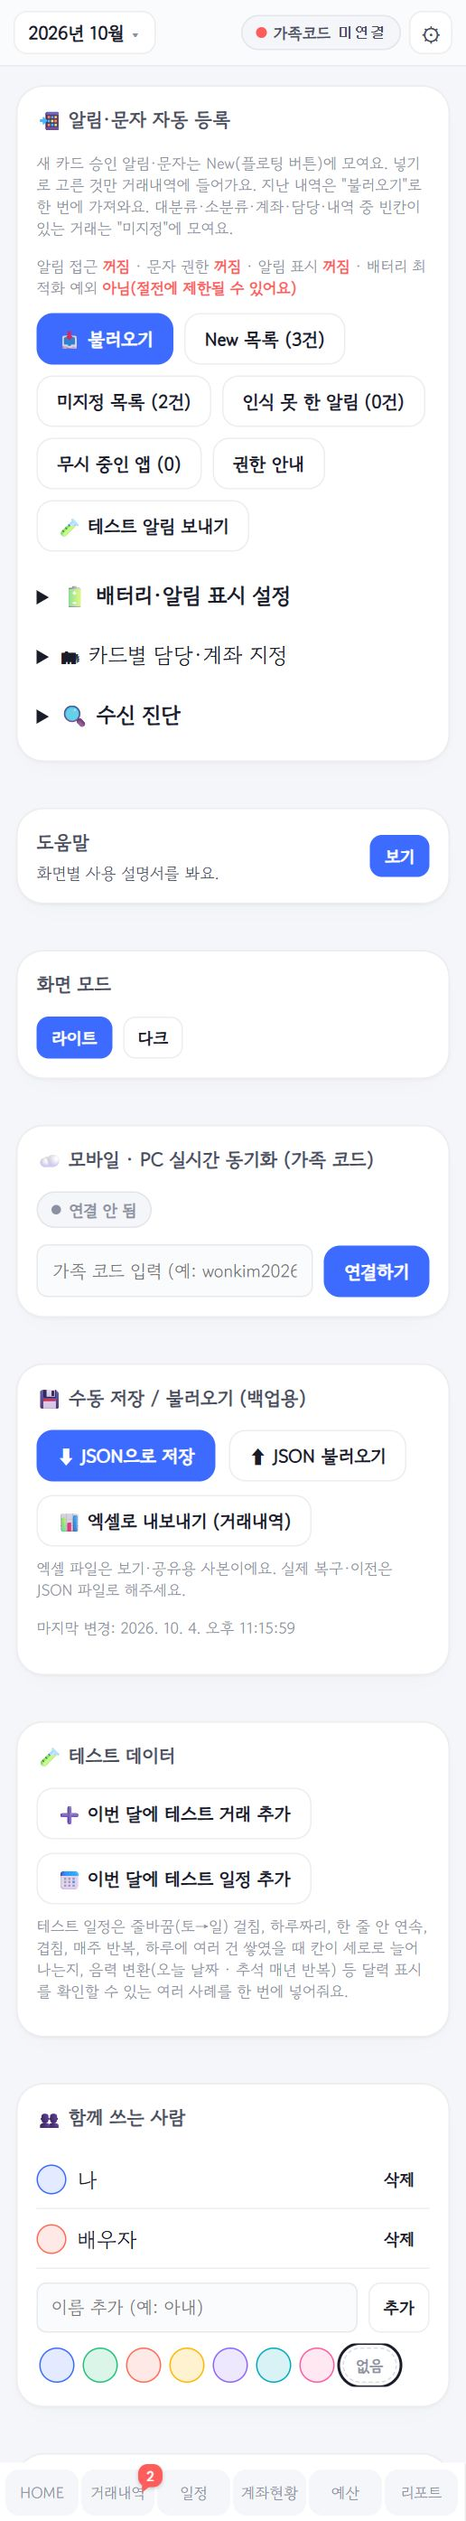
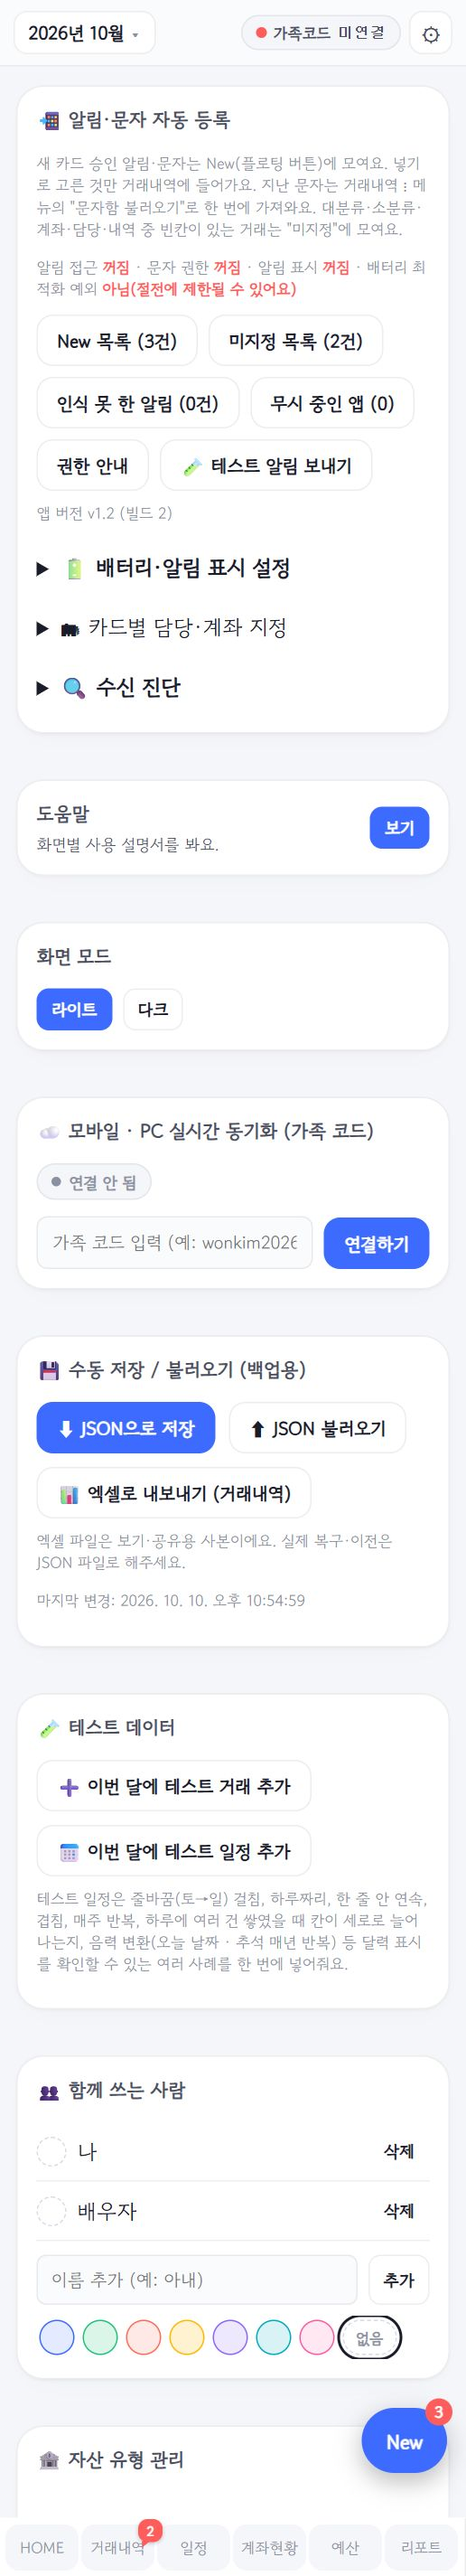
문자함 불러오기를 거래내역 ⋮ 메뉴로 이동, 도움말 갱신(설정·⋮ 메뉴·불러오기 미리보기)

diff --git a/help/help-data.js b/help/help-data.js
@@ -10,7 +10,7 @@
  * 좌표 잡는 법과 갱신 절차는 .agents/skills/help-manual/SKILL.md 참고.
  */
 window.GB_HELP_DATA = {
-  version: '2026-10-09',
+  version: '2026-10-10',
   device: 'Galaxy Z Fold5 접은 화면 344×882',
   screens: [
     {
@@ -121,22 +121,22 @@ window.GB_HELP_DATA = {
       id: 'settings', tab: '설정', title: '설정', image: 'img/settings.jpg',
       desc: '알림·문자 자동 인식, 도움말, 화면 모드, 가족코드, 백업 등을 관리해요.',
       points: [
-        { n: 1, x: 9, y: 4.4, title: '알림·문자 자동 인식', text: '앱 전용이에요. 새 카드 승인 문자·알림은 New(플로팅 버튼)에 모여요. 아래 줄에 권한 상태(켜짐/꺼짐)가 보여요.' },
-        { n: 2, x: 9, y: 12.6, title: '불러오기', text: '지난 내역을 기간·카드사를 골라 한 번에 가져와요. 가져온 거래는 New를 거치지 않고 바로 거래내역에 들어가요(빈칸이 있으면 미지정). 잘못 가져오면 결과 창에서 되돌려요.' },
-        { n: 3, x: 40.7, y: 12.6, title: 'New 목록', text: '플로팅 버튼 New와 같은 목록이에요. 새로 온 거래를 넣을지 버릴지 골라요.' },
-        { n: 4, x: 9, y: 15.1, title: '미지정 목록', text: '대분류·소분류·계좌·담당·내역 중 빈칸이 있는 거래를 모아 보고 채워요. 거래내역의 미지정 칩과 같은 목록이에요.' },
-        { n: 5, x: 48.9, y: 15.1, title: '인식 못 한 알림', text: '금융 알림 같지만 자동으로 읽지 못한 알림이에요. 여기서만 볼 수 있고, 원문을 보고 직접 등록하거나 무시해요.' },
-        { n: 6, x: 9, y: 17.6, title: '무시 중인 앱', text: '"다시 받지 않기"한 앱 목록이에요. 실수로 막았으면 여기서 되돌려요.' },
-        { n: 7, x: 46.8, y: 17.6, title: '권한 안내 / 테스트 알림', text: '필요한 권한을 다시 안내하고, 테스트 알림으로 알림 인식이 되는지 확인해요.' },
-        { n: 8, x: 9, y: 22.7, title: '접힌 메뉴', text: '▶ 를 누르면 배터리·알림 표시 설정, 카드별 담당·계좌 지정, 수신 진단이 펼쳐져요.' },
-        { n: 9, x: 80.6, y: 33.3, title: '도움말', text: '지금 보고 있는 이 화면별 설명서를 열어요.' },
-        { n: 10, x: 9, y: 38.7, title: '화면 모드', text: '라이트/다크 모드를 바꿔요.' },
-        { n: 11, x: 9, y: 45.6, title: '가족코드 연결', text: '같은 가족코드를 입력한 기기끼리 실시간으로 같은 가계부를 봐요. 가입은 필요 없고, 남이 추측하기 어려운 코드를 쓰세요.' },
-        { n: 12, x: 9, y: 55.1, title: '백업', text: 'JSON으로 저장하면 파일로 보관하고, 나중에 JSON 불러오기로 되살려요. 엑셀은 보기용 사본이라 되돌려 불러올 수 없어요.' },
-        { n: 13, x: 9, y: 69.3, title: '테스트 데이터', text: '화면 확인용 예시 거래·일정을 이번 달에 넣어요. 확인 후에는 직접 지워주세요.' },
-        { n: 14, x: 9, y: 83.7, title: '함께 쓰는 사람', text: '거래·일정의 "담당"으로 고를 사람을 추가하거나 지워요. 이름을 적고 아래에서 색을 고른 뒤 "추가"를 눌러요.' },
-        { n: 15, x: 11, y: 86.4, title: '담당자 색 점', text: '이름 앞 동그라미가 그 사람의 색이에요. 색 점이나 이름을 누르면 이름과 색을 바꾸는 창이 열려요. 정한 색은 HOME 최근 거래의 행 바탕에 보여요.' },
-        { n: 16, x: 9, y: 93.8, title: '색 고르기', text: '새로 추가할 사람의 색을 추천 7가지 중에서 골라요. "없음"을 고르면 색 없이 추가돼요.' }
+        { n: 1, x: 9, y: 4.3, title: '알림·문자 자동 인식', text: '앱 전용이에요. 새 카드 승인 문자·알림은 New(플로팅 버튼)에 모여요. 아래 줄에 권한 상태(켜짐/꺼짐)가 보여요. 지난 문자 불러오기는 거래내역 ⋮ 메뉴로 옮겼어요.' },
+        { n: 2, x: 9, y: 12.4, title: 'New 목록', text: '플로팅 버튼 New와 같은 목록이에요. 새로 온 거래를 넣을지 버릴지 골라요.' },
+        { n: 3, x: 45.9, y: 12.4, title: '미지정 목록', text: '대분류·소분류·계좌·담당·내역 중 빈칸이 있는 거래를 모아 보고 채워요. 거래내역의 미지정 칩과 같은 목록이에요.' },
+        { n: 4, x: 9, y: 14.8, title: '인식 못 한 알림', text: '금융 알림 같지만 자동으로 읽지 못한 알림이에요. 여기서만 볼 수 있고, 원문을 보고 직접 등록하거나 무시해요.' },
+        { n: 5, x: 54.8, y: 14.8, title: '무시 중인 앱', text: '"다시 받지 않기"한 앱 목록이에요. 실수로 막았으면 여기서 되돌려요.' },
+        { n: 6, x: 9, y: 17.3, title: '권한 안내 / 테스트 알림', text: '필요한 권한을 다시 안내하고, 테스트 알림으로 알림 인식이 되는지 확인해요.' },
+        { n: 7, x: 42, y: 19.9, title: '앱 버전', text: '지금 휴대폰에 설치된 앱 버전이에요. 새 APK를 설치했으면 이 숫자가 올라갔는지 확인하세요.' },
+        { n: 8, x: 9, y: 21.2, title: '접힌 메뉴', text: '▶ 를 누르면 배터리·알림 표시 설정, 카드별 담당·계좌 지정, 수신 진단이 펼쳐져요.' },
+        { n: 9, x: 80.6, y: 31.5, title: '도움말', text: '지금 보고 있는 이 화면별 설명서를 열어요.' },
+        { n: 10, x: 9, y: 36.8, title: '화면 모드', text: '라이트/다크 모드를 바꿔요.' },
+        { n: 11, x: 9, y: 43.6, title: '가족코드 연결', text: '같은 가족코드를 입력한 기기끼리 실시간으로 같은 가계부를 봐요. 가입은 필요 없고, 남이 추측하기 어려운 코드를 쓰세요.' },
+        { n: 12, x: 9, y: 52.8, title: '백업', text: 'JSON으로 저장하면 파일로 보관하고, 나중에 JSON 불러오기로 되살려요. 엑셀은 보기용 사본이라 되돌려 불러올 수 없어요.' },
+        { n: 13, x: 9, y: 66.7, title: '테스트 데이터', text: '화면 확인용 예시 거래·일정을 이번 달에 넣어요. 확인 후에는 직접 지워주세요.' },
+        { n: 14, x: 9, y: 80.8, title: '함께 쓰는 사람', text: '거래·일정의 "담당"으로 고를 사람을 추가하거나 지워요. 이름을 적고 아래에서 색을 고른 뒤 "추가"를 눌러요.' },
+        { n: 15, x: 9.5, y: 83.4, title: '담당자 색 점', text: '이름 앞 동그라미가 그 사람의 색이에요. 색 점이나 이름을 누르면 이름과 색을 바꾸는 창이 열려요. 정한 색은 HOME 최근 거래의 행 바탕에 보여요.' },
+        { n: 16, x: 9.5, y: 90.4, title: '색 고르기', text: '새로 추가할 사람의 색을 추천 7가지 중에서 골라요. "없음"을 고르면 색 없이 추가돼요.' }
       ]
     },
     {
@@ -152,16 +152,28 @@ window.GB_HELP_DATA = {
       id: 'popup-kebab', tab: '⋮ 메뉴', title: '⋮ 메뉴 (예: 거래내역 설정)', image: 'img/popup-kebab.jpg',
       desc: '카드 오른쪽 위 ⋮ 를 누르면 그 화면에 필요한 메뉴가 열려요. 일정·계좌현황·예산에도 있어요.',
       points: [
-        { n: 1, x: 10.1, y: 60.9, title: '문자/카카오톡 붙여넣기', text: '결제 문자나 카카오톡 알림 내용을 붙여넣으면 거래로 읽어 등록해요.' },
-        { n: 2, x: 10.1, y: 70.4, title: '거래내역 불러오기', text: '은행·카드사에서 받은 엑셀(.xlsx)·CSV 파일을 올려 한 번에 등록해요. 계좌번호는 필요 없어요.' },
-        { n: 3, x: 10.1, y: 79.8, title: '표 내용 붙여넣기', text: '파일 업로드가 잘 안 되면 엑셀·카드사 화면의 표를 복사해 붙여넣어도 똑같이 인식해요.' },
-        { n: 4, x: 10.1, y: 89.3, title: '거래내역 내보내기', text: '거래내역을 보기 좋은 엑셀 파일로 저장해요.' },
-        { n: 5, x: 79.4, y: 52.7, title: '닫기', text: '메뉴를 닫아요. 휴대폰 뒤로가기로도 닫혀요.' }
+        { n: 1, x: 10.1, y: 69.7, title: '문자함 불러오기', text: '앱 전용이에요. 휴대폰 문자함의 지난 카드·은행 문자를 기간·카드사를 골라 한 번에 가져와요. 미리보기를 보고 가져오면 New를 거치지 않고 바로 거래내역에 들어가요.' },
+        { n: 2, x: 10.1, y: 75.6, title: '문자/카카오톡 붙여넣기', text: '결제 문자나 카카오톡 알림 내용을 붙여넣으면 거래로 읽어 등록해요.' },
+        { n: 3, x: 10.1, y: 81.5, title: '거래내역 불러오기', text: '은행·카드사에서 받은 엑셀(.xlsx)·CSV 파일을 올려 한 번에 등록해요. 계좌번호는 필요 없어요.' },
+        { n: 4, x: 10.1, y: 87.4, title: '표 내용 붙여넣기', text: '파일 업로드가 잘 안 되면 엑셀·카드사 화면의 표를 복사해 붙여넣어도 똑같이 인식해요.' },
+        { n: 5, x: 10.1, y: 93.3, title: '거래내역 내보내기', text: '거래내역을 보기 좋은 엑셀 파일로 저장해요.' },
+        { n: 6, x: 79.4, y: 64.6, title: '닫기', text: '메뉴를 닫아요. 휴대폰 뒤로가기로도 닫혀요.' }
+      ]
+    },
+    {
+      id: 'popup-import-preview', tab: '불러오기 미리보기', title: '문자함 불러오기 — 미리보기', image: 'img/popup-import-preview.jpg',
+      desc: '거래내역 ⋮ > 문자함 불러오기에서 기간·카드사를 고르고 "다음"을 누르면 가져오기 전에 보여줘요.',
+      points: [
+        { n: 1, x: 10.1, y: 69.5, title: '읽은 문자', text: '휴대폰에서 읽은 문자 수예요. 단문과 장문(긴 카드 승인 문자)을 나눠 보여줘요. 0건이면 기간이나 문자 권한을 확인하세요. 권한이 꺼져 있으면 빨간 안내와 "문자 권한 요청" 버튼이 나와요.' },
+        { n: 2, x: 10.1, y: 72.0, title: '신규 / 중복 / 인식 못 함', text: '새로 들어갈 건수와 카드사별 수, 이미 있어서 빼는 중복 건수, 거래로 읽지 못한 건수예요.' },
+        { n: 3, x: 8.4, y: 78.6, title: '새로 들어갈 거래', text: '가져오면 거래내역에 들어갈 거래를 최근 것부터 최대 10건 보여줘요.' },
+        { n: 4, x: 10.1, y: 87.1, title: '전에 처리한 문자도 다시 확인', text: 'New에서 버렸거나 예전에 걸러진 문자는 원래 중복으로 빼요. 체크하면 그중 지금 거래내역·New에 없는 것만 다시 가져와요.' },
+        { n: 5, x: 10.1, y: 93.3, title: '가져오기 / 뒤로', text: '가져오기를 누르면 거래내역에 바로 들어가요. 뒤로는 기간·카드사 선택으로 돌아가요.' }
       ]
     },
     {
       id: 'popup-import-result', tab: '불러오기 결과', title: '불러오기 결과', image: 'img/popup-import-result.jpg',
-      desc: '설정 > 불러오기로 지난 내역을 가져오면 결과를 4칸으로 보여줘요. 지난 내역은 New를 거치지 않고 바로 거래내역에 들어가요.',
+      desc: '거래내역 ⋮ 메뉴의 문자함 불러오기로 지난 문자를 가져오면 결과를 4칸으로 보여줘요. 지난 내역은 New를 거치지 않고 바로 거래내역에 들어가요.',
       points: [
         { n: 1, x: 11.3, y: 56.7, title: '등록', text: '거래내역에 바로 들어간 건수예요.' },
         { n: 2, x: 53.8, y: 56.7, title: '미지정', text: '들어간 거래 중 빈칸(대분류·소분류·계좌·담당·내역)이 있는 건수예요. 누르면 미지정 목록이 열려요.' },

diff --git a/index.html b/index.html
@@ -7037,6 +7037,8 @@ function clickExistingButton(id){
   if (el) el.click();
 }
 function openScreenSettingsMenu(title, items){
+  // 14차: show() 가 false 인 항목(예: 앱 전용 '문자함 불러오기' — 웹에는 버튼이 없음)은 빼고 그린다
+  items = items.filter(it=>{ try { return typeof it.show !== 'function' || it.show(); } catch(_){ return false; } });
   openModal(`<div class="section-title"><h3>${escapeHtml(title)}</h3><button type="button" class="btn small ghost" id="screen-menu-close">닫기</button></div>
     <div class="screen-menu-list">${items.map((it,i)=>{
       // 7차(팀 A): label 이 함수면 메뉴를 열 때마다 계산(예: '숨긴 계좌 보기 (N)' / '숨긴 계좌 감추기' 토글)
@@ -7055,6 +7057,8 @@ function openScreenSettingsMenu(title, items){
 }
 const SCREEN_SETTINGS_MENUS = {
   'tx-screen-settings-btn': ['거래내역 설정', [
+    // 14차: 설정 카드에 있던 앱 전용 '불러오기'(기간 지정 문자함 불러오기)를 여기로 — inbox-ui 가 만든 (숨긴) 버튼을 누른다
+    {label:'문자함 불러오기 (지난 카드·은행 문자)', show:()=>!!document.getElementById('inbox-import-btn'), run:()=>clickExistingButton('inbox-import-btn')},
     {label:'문자/카카오톡 붙여넣기', run:()=>clickExistingButton('paste-add-btn')},
     {label:'거래내역 불러오기 (엑셀/CSV 파일)', run:()=>clickExistingButton('import-file-btn')},
     {label:'표 내용 붙여넣기로 가져오기', run:()=>clickExistingButton('import-paste-btn')},
